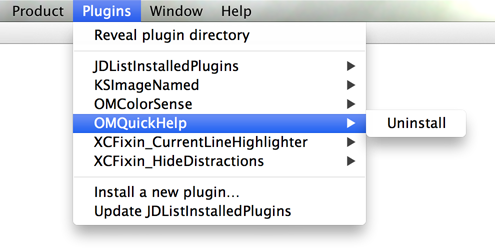
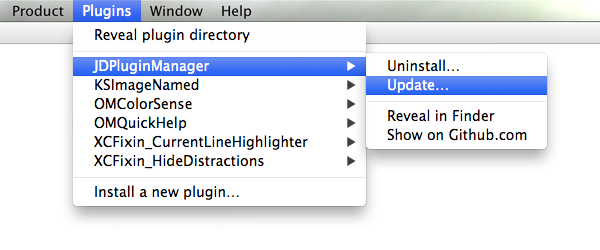
updated screenshots and readme

Changed region(s): [[0.0, 0.0, 0.9697, 0.952], [0.8788, 0.084, 1.0, 0.112]]

diff --git a/README.md b/README.md
@@ -2,9 +2,16 @@
 
 ## Overview
 
-Are you using a lot of XCode Plugins?
+Are you using a lot of XCode Plugins?  
+This plugin makes it easy to install, update and remove them.
 
-This plugin will give you an overview of all installed Plugins. With it you can easily open their directories, uninstall plugins or even install new ones from a github repository - everything happens directly out of Xcode.  
+**Key Features:**
+
+- Install plugins easily by just entering a git repository url
+- One-click updates (for plugins installed with JDPluginManager)
+- Uninstall plugins
+
+
 *This is tested only on OS X 10.8 with Xcode 4.6.*
 
 It adds a new MenuItem "Plugins" in the Menu Bar of Xcode:
